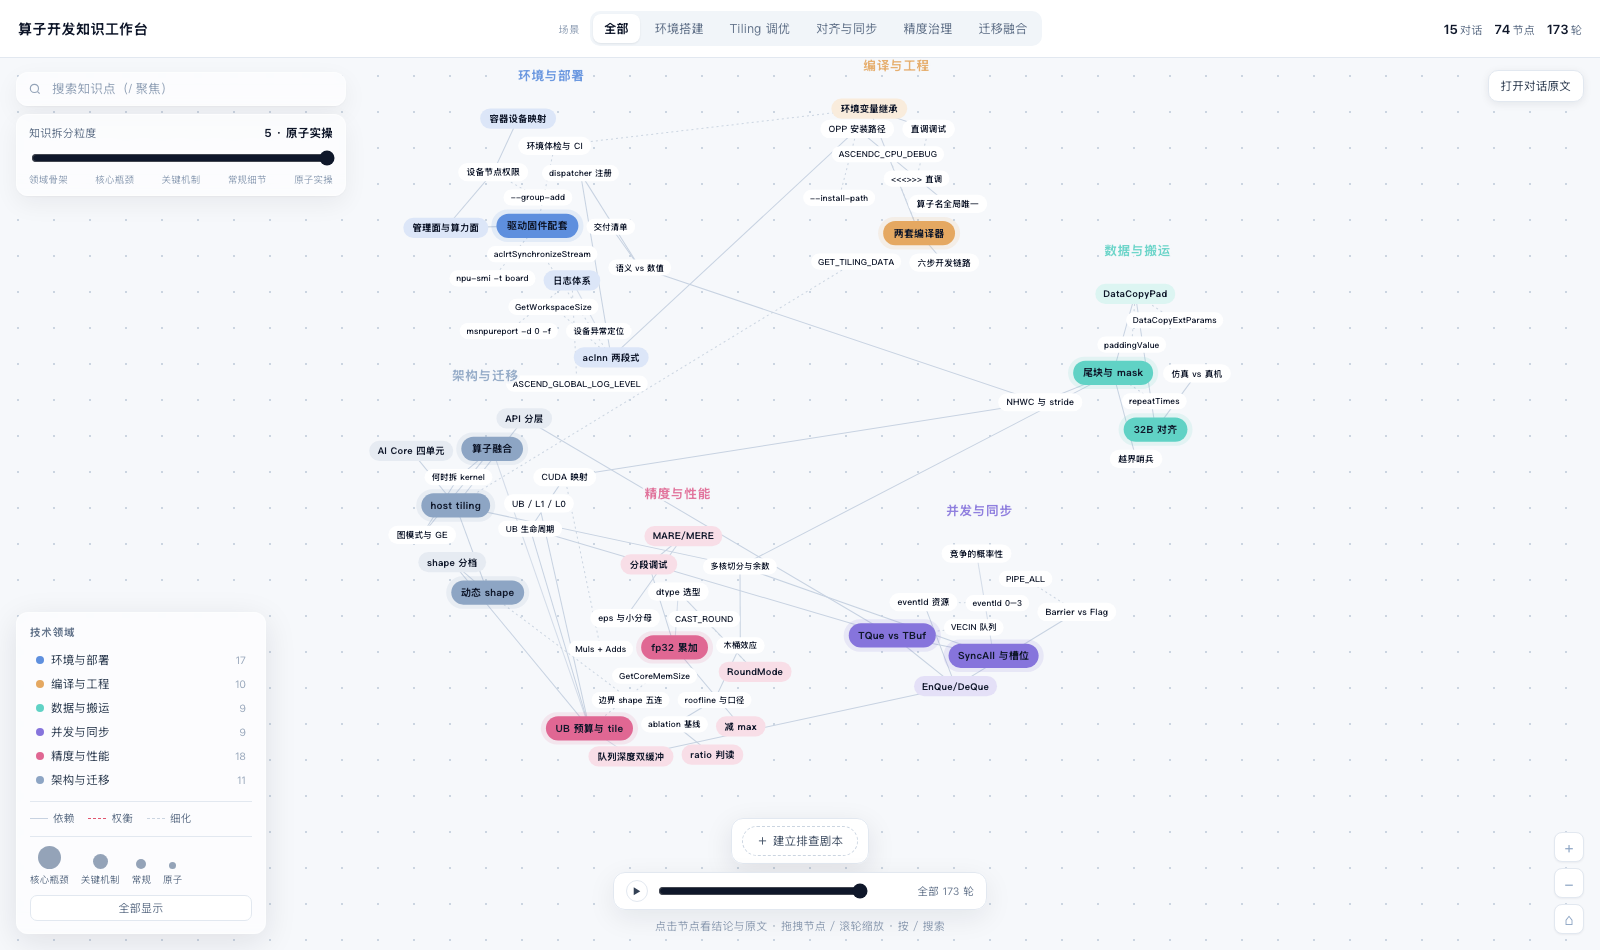
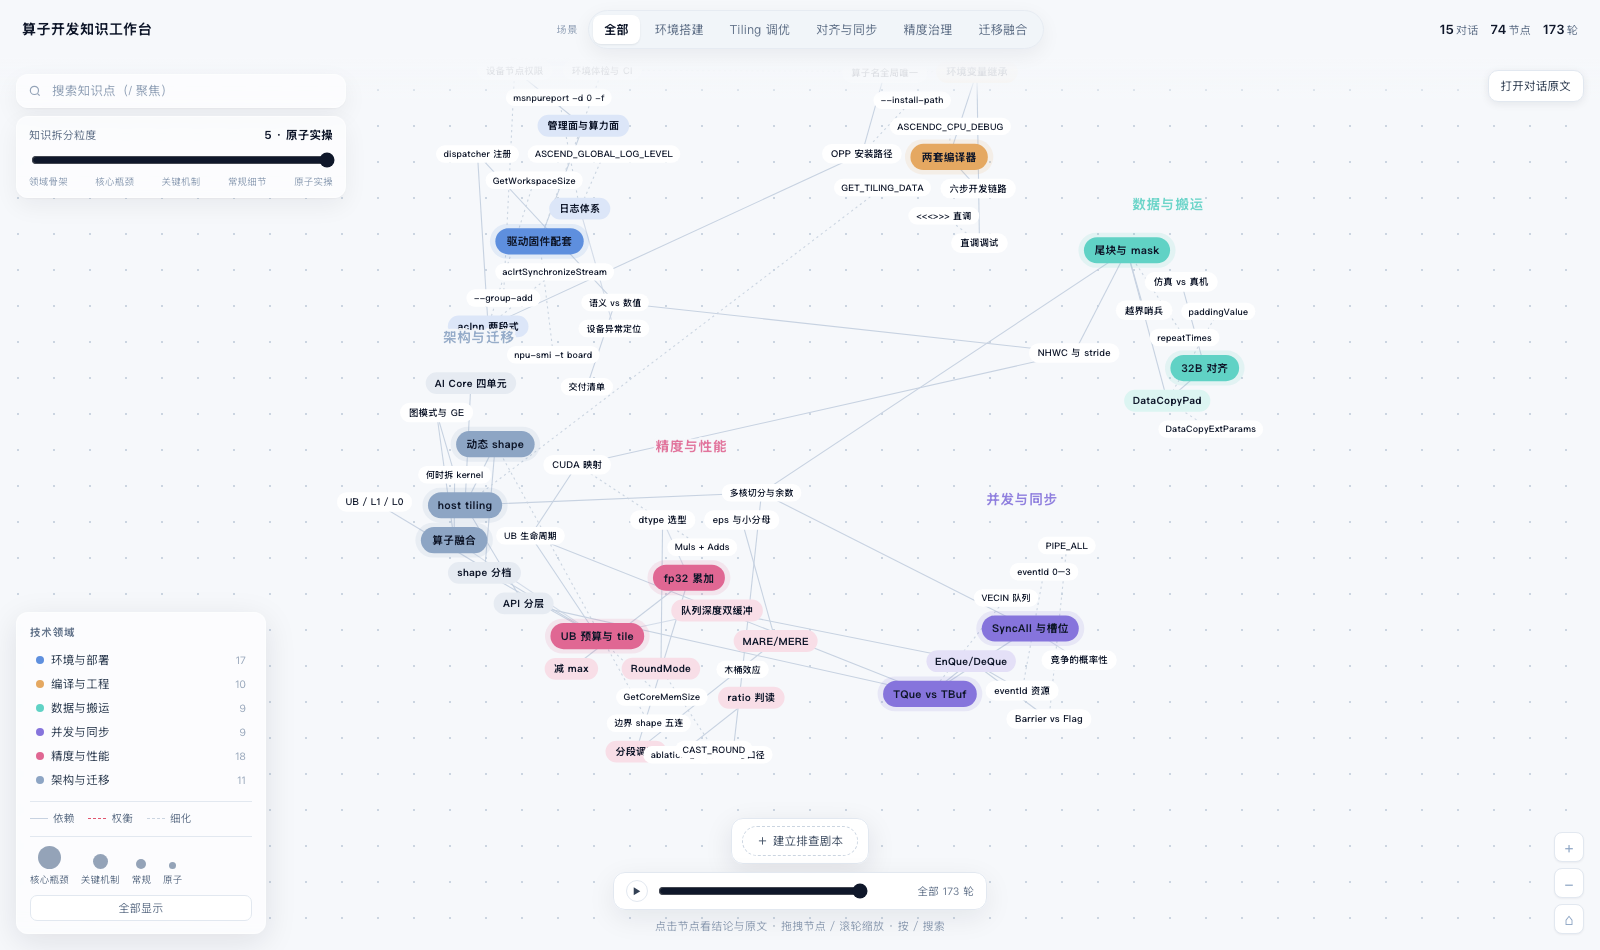
style(topbar): 顶栏改为悬浮+顶部渐隐带，场景组独立胶囊

diff --git a/cann-dashboard/算子知识工作台.html b/cann-dashboard/算子知识工作台.html
@@ -21,14 +21,15 @@
   button{font-family:inherit}
 
   /* ---------- top bar ---------- */
-  .topbar{height:58px;display:grid;grid-template-columns:1fr auto 1fr;align-items:center;gap:16px;padding:0 18px;background:var(--card);
-    border-bottom:1px solid var(--line);position:relative;z-index:30}
+  .topbar{position:fixed;top:0;left:0;right:0;height:58px;display:grid;grid-template-columns:1fr auto 1fr;align-items:center;gap:16px;padding:0 22px;background:transparent;
+    border:none;z-index:30}
   .brand{display:flex;align-items:baseline;gap:8px;flex:0 0 auto}
   .brand b{font-size:14px;letter-spacing:.2px}
   .brand span{font-size:11px;color:var(--ink2)}
   .scenebar{display:flex;align-items:center;gap:10px;justify-self:center;min-width:0}
   .scenes-tag{flex:0 0 auto;font-size:10px;color:#94A3B8;letter-spacing:.6px}
-  .scenes{display:flex;gap:4px;background:#F1F5F9;border-radius:10px;padding:3px;overflow-x:auto;flex:0 1 auto;max-width:72vw}
+  .scenes{display:flex;gap:4px;background:#F1F5F9;border:1px solid #E6EBF2;border-radius:999px;padding:4px;
+    overflow-x:auto;flex:0 1 auto;max-width:72vw;box-shadow:0 6px 20px rgba(15,23,42,.06)}
   .scenes button{border:0;background:transparent;color:var(--ink2);font-size:12px;padding:6px 11px;
     border-radius:8px;cursor:pointer;white-space:nowrap}
   .scenes button.on{background:#fff;color:var(--ink);font-weight:600;box-shadow:0 1px 2px rgba(15,23,42,.08)}
@@ -37,7 +38,9 @@
   .stat i{font-style:normal;font-weight:700;color:var(--ink);font-size:13px;margin-right:2px}
 
   /* ---------- stage ---------- */
-  .layout{height:calc(100vh - 58px);display:flex}
+  .layout{height:100vh;display:flex}
+  .topfade{position:fixed;top:0;left:0;right:0;height:100px;z-index:15;pointer-events:none;
+    background:linear-gradient(to bottom,var(--bg) 0%,var(--bg) 58%,rgba(246,248,251,.86) 80%,rgba(246,248,251,0) 100%)}
   .stage{flex:1;position:relative;overflow:hidden;
     background-color:var(--bg);
     background-image:radial-gradient(#CBD5E1 .9px, transparent .9px);
@@ -50,7 +53,7 @@
   /* ---------- floating panels ---------- */
   .panel{background:rgba(255,255,255,.94);border:1px solid var(--line);border-radius:12px;
     box-shadow:0 1px 2px rgba(15,23,42,.04),0 8px 24px rgba(15,23,42,.06);backdrop-filter:blur(10px)}
-  .tools{position:absolute;left:16px;top:14px;z-index:8;display:flex;flex-direction:column;gap:8px;width:330px}
+  .tools{position:absolute;left:16px;top:74px;z-index:16;display:flex;flex-direction:column;gap:8px;width:330px}
   .search{display:flex;align-items:center;gap:8px;padding:8px 11px}
   .search.panel,.gran.panel,.pathbar,.tl{background:var(--glass-bg);
     backdrop-filter:var(--glass-blur);-webkit-backdrop-filter:var(--glass-blur);
@@ -291,6 +294,8 @@
   </div>
   <div class="stats" id="stats"></div>
 </header>
+
+<div class="topfade"></div>
 
 <main class="layout">
   <section class="stage" id="stage">
